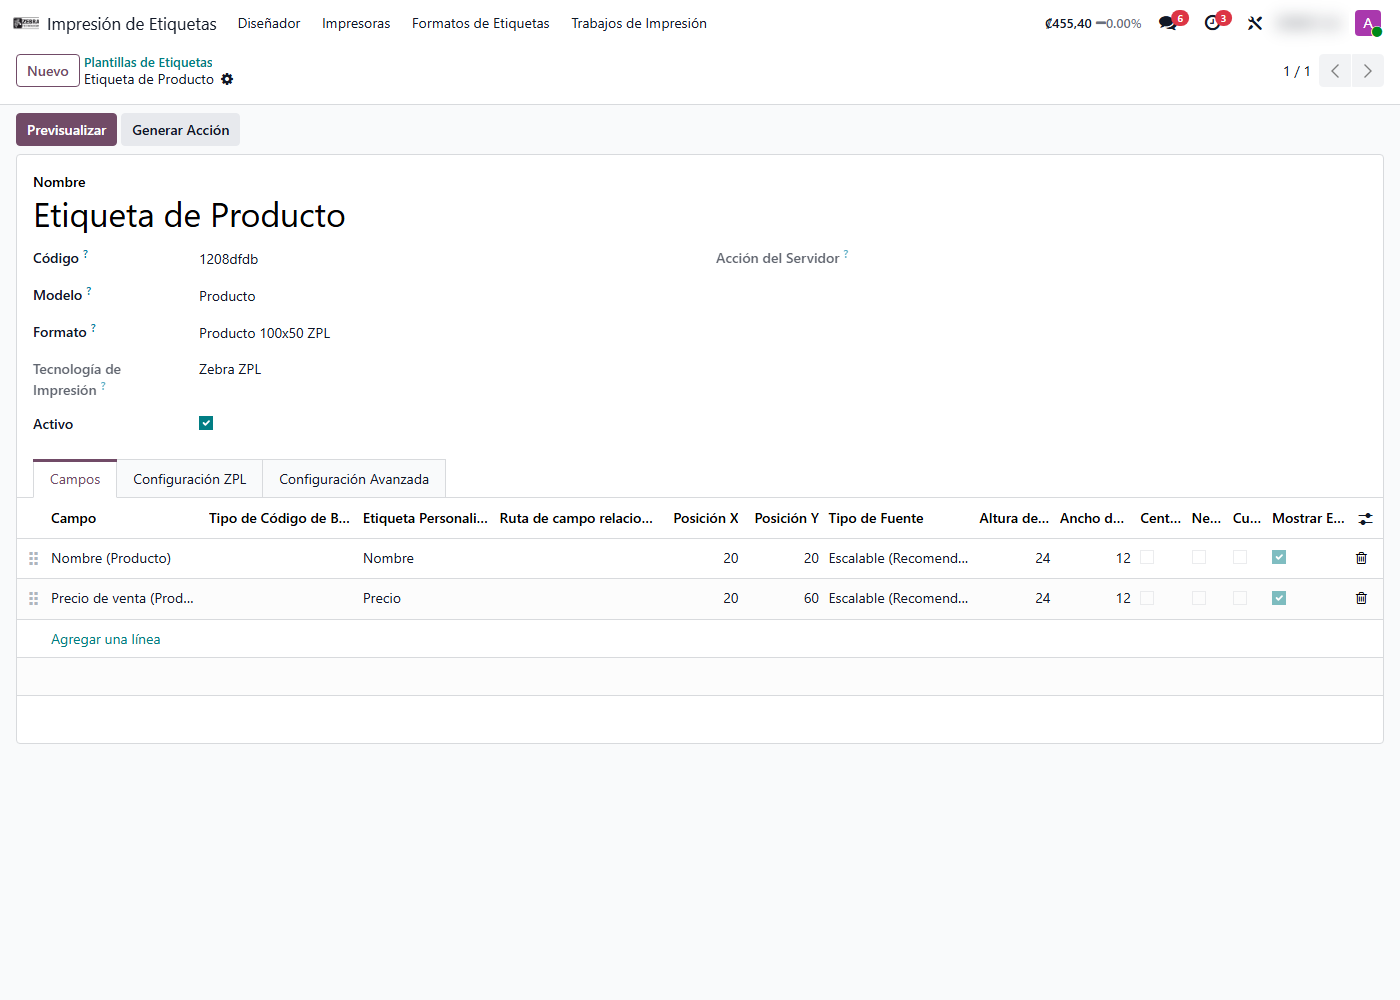
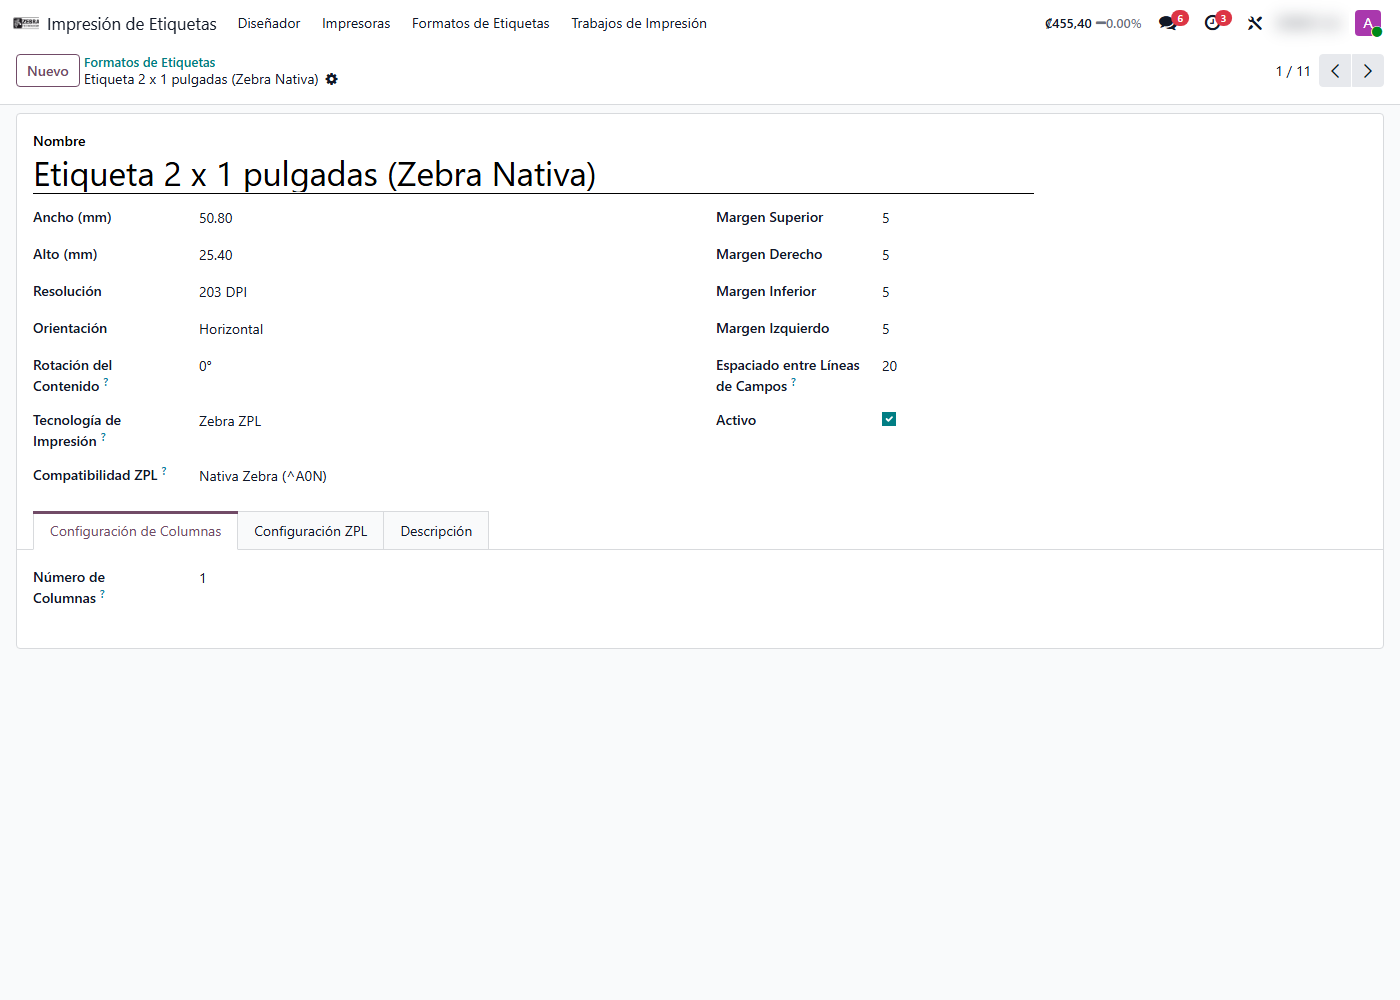
FEAT: agregar módulo Sistema Universal de Impresión de Etiquetas al portafolio
- Página de detalle en projects/impresion-etiquetas-odoo.html
- 5 capturas en images/projects/impresion-etiquetas-odoo/
- Card agregada al grid de proyectos

diff --git a/projects/impresion-etiquetas-odoo.html b/projects/impresion-etiquetas-odoo.html
@@ -59,10 +59,10 @@
           <svg viewBox="0 0 24 24" fill="none"><path d="M15 6l-6 6 6 6" stroke="currentColor" stroke-width="2" stroke-linecap="round" stroke-linejoin="round"/></svg>
         </button>
         <div class="carousel__track">
-          <figure class="carousel__slide"><img src="../images/projects/impresion-etiquetas-odoo/1.png" alt="Diseñador visual de plantillas"><figcaption>01. Diseñador visual con catálogo de plantillas</figcaption></figure>
-          <figure class="carousel__slide"><img src="../images/projects/impresion-etiquetas-odoo/2.png" alt="Formato de etiqueta"><figcaption>02. Formato: tamaño, resolución y tecnología</figcaption></figure>
-          <figure class="carousel__slide"><img src="../images/projects/impresion-etiquetas-odoo/3.png" alt="Configuración de la plantilla"><figcaption>03. Campos enlazados al registro de Odoo</figcaption></figure>
-          <figure class="carousel__slide"><img src="../images/projects/impresion-etiquetas-odoo/4.png" alt="Campos de la plantilla"><figcaption>04. Posición, fuente y código de barras por campo</figcaption></figure>
+          <figure class="carousel__slide"><img src="../images/projects/impresion-etiquetas-odoo/1.png" alt="Editor visual de etiquetas"><figcaption>01. Editor visual: lienzo, paleta y código ZPL en vivo</figcaption></figure>
+          <figure class="carousel__slide"><img src="../images/projects/impresion-etiquetas-odoo/2.png" alt="Diseñador visual de plantillas"><figcaption>02. Catálogo de plantillas por modelo y tamaño</figcaption></figure>
+          <figure class="carousel__slide"><img src="../images/projects/impresion-etiquetas-odoo/3.png" alt="Formato de etiqueta"><figcaption>03. Formato: tamaño, resolución y tecnología</figcaption></figure>
+          <figure class="carousel__slide"><img src="../images/projects/impresion-etiquetas-odoo/4.png" alt="Configuración de la plantilla"><figcaption>04. Campos enlazados al registro de Odoo</figcaption></figure>
           <figure class="carousel__slide"><img src="../images/projects/impresion-etiquetas-odoo/5.png" alt="Listado de impresoras"><figcaption>05. Impresoras por red, USB o compartidas</figcaption></figure>
         </div>
         <button class="carousel__nav carousel__nav--next" aria-label="Siguiente">